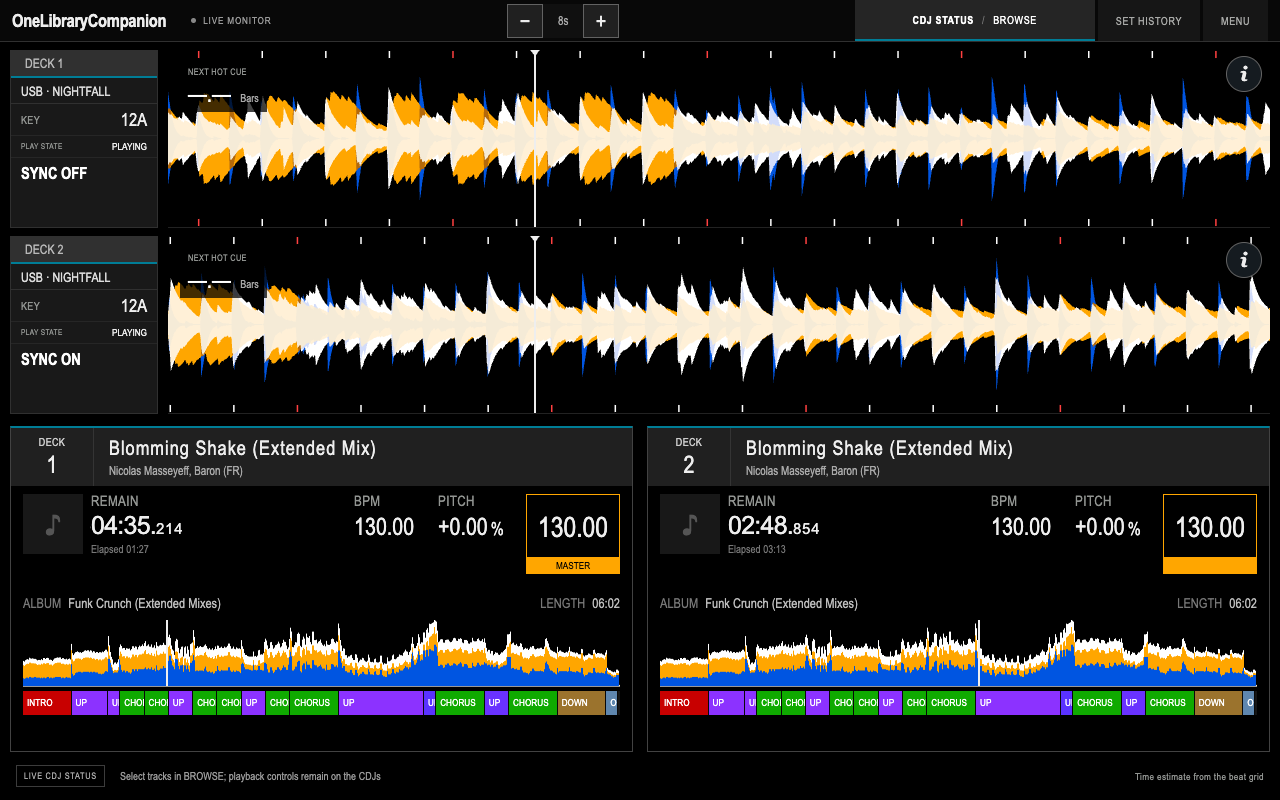
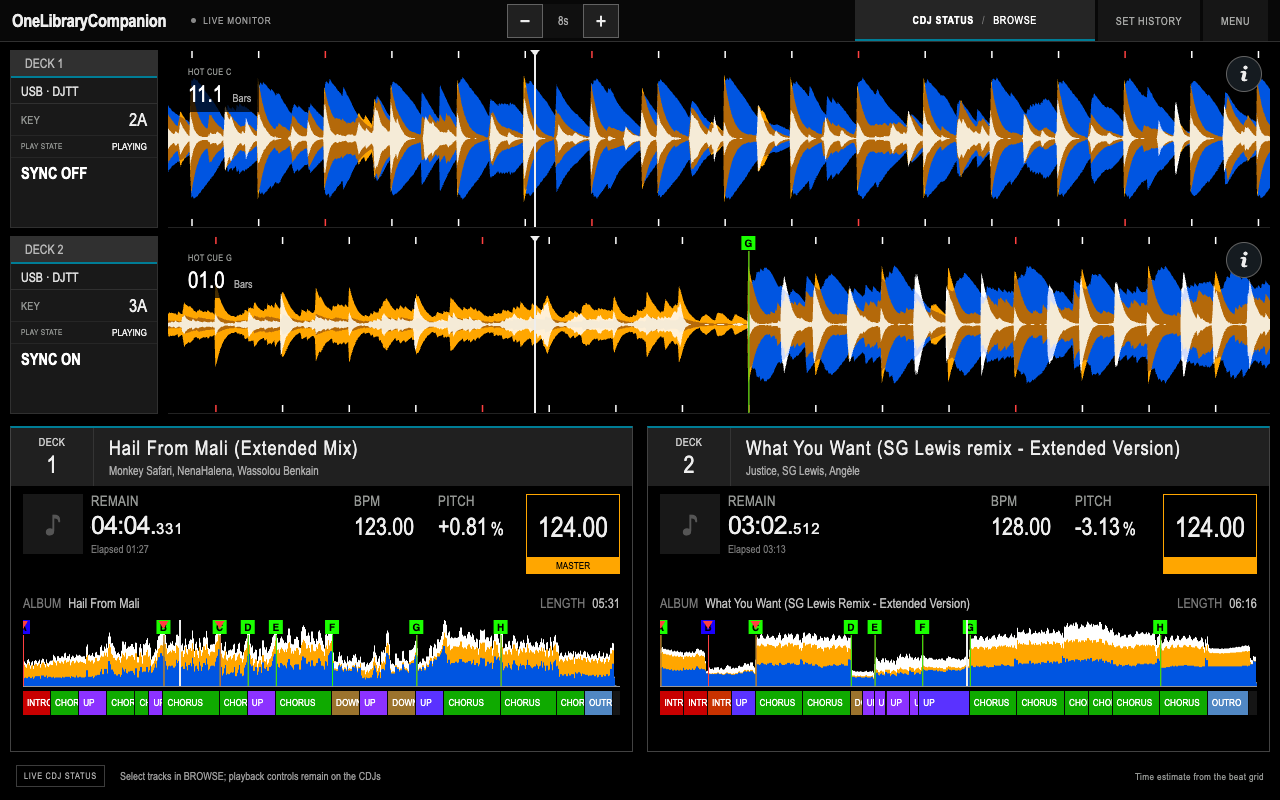
Show real exported waveforms for Hail From Mali and What You Want

diff --git a/docs/screenshots.md b/docs/screenshots.md
@@ -8,7 +8,7 @@ Follow the mix, choose your next track and keep a record of the set. Playback an
 
 Use the two-deck view to compare timing and track structure. Zoom the waveforms, watch approaching cues and phrases, and tap the time display to switch between elapsed and remaining time. The information button opens more track details.
 
-![CDJ status](screenshots/cdj-status.png)
+![CDJ status](screenshots/cdj-status.png?v=2)
 
 Converted local tracks show their output format and bit depth on one line in the left panel.
 
@@ -30,6 +30,6 @@ Choose **Start set** before playing and **Finish & save** afterwards. Edit the t
 
 ![Set history](screenshots/set-history.png)
 
-*These 1280 × 800 screenshots illustrate active sessions. CDJ status uses real exported waveform and phrase data, with the same track at two positions. Playback and connection states are illustrative; the library uses example data.*
+*These 1280 × 800 screenshots illustrate active sessions. CDJ status uses the real exported waveforms, beat grids, cues and phrases for Hail From Mali and What You Want. Playback and connection states are illustrative; the library uses example data.*
 
 [Install OLC](distribution.md) · [Display and filter preferences](configuration.md)

diff --git a/README.md b/README.md
@@ -20,7 +20,7 @@ Use **CDJ STATUS / BROWSE** to switch between the two screens. Its text uses the
 
 Compare both decks at a glance and see how the tracks fit together. Zoom into the waveforms for the next transition, follow approaching cues and phrases, and switch between elapsed and remaining time. Open track information for artwork and fuller library details.
 
-![CDJ status with two active decks and three-band waveforms](docs/screenshots/cdj-status.png)
+![CDJ status with two active decks and three-band waveforms](docs/screenshots/cdj-status.png?v=2)
 
 ## Library — find and load the next track
 
